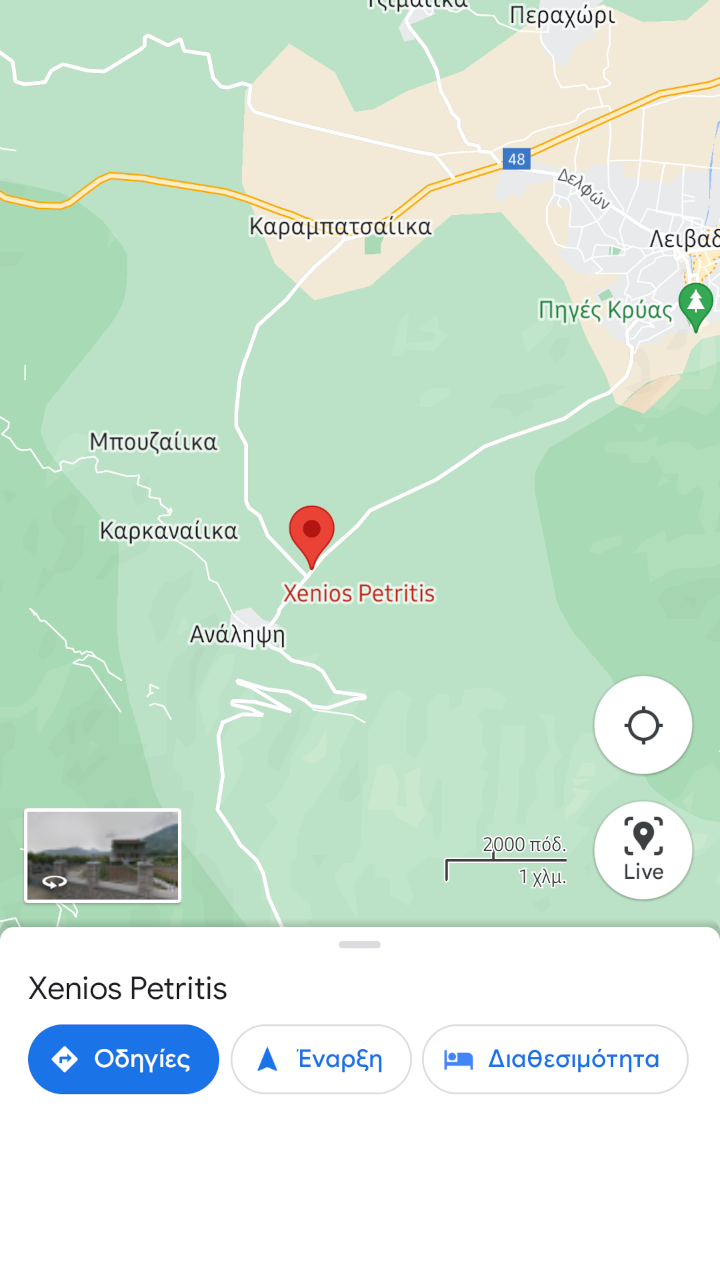
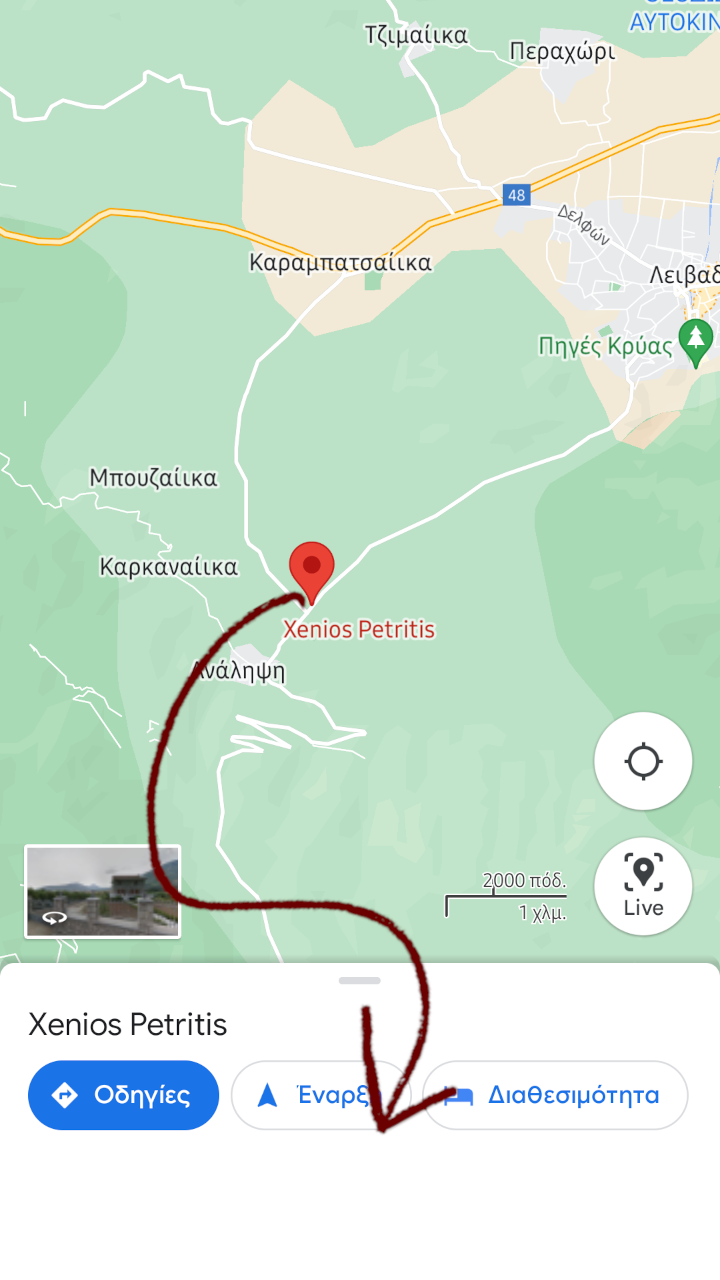
gmap

Changed region(s): [[0.0, 0.0, 1.0, 0.9062], [0.0917, 0.5, 0.1528, 0.5625], [0.0, 0.3438, 0.0306, 0.375]]

diff --git a/lab/bnb/amp.html b/lab/bnb/amp.html
@@ -71,7 +71,7 @@
         font-weight:300;
         color: var(--light);
       }
-      
+
       .p-map {
         color: var(--light);
         font-weight: 300;
@@ -106,24 +106,23 @@
       </amp-story-page>
       <amp-story-page id="gmap">
           <amp-story-grid-layer template="fill">
-          <amp-img src="assets/img/map.png"
+          <amp-img src="assets/img/map2.png"
               width="720" height="1280"
               layout="responsive">
           </amp-img>
           </amp-story-grid-layer>
           <amp-story-grid-layer template="vertical">
             <h1 class="h1-map" data-text-background-color="#1c1c1c">Πως θα μας βρείτε</h1>
-            <p class="p-map" data-text-background-color="#1c1c1c">Πατήστε το κουμπί <strong> Google Map</strong> και όταν ανοίξει η εφαρμόγη ή η σελίδα πατήστε Οδηγίες (Directions) ή Έναρξη (Start)</p>
+            <p class="p-map" data-text-background-color="#1c1c1c">Πατήστε το κουμπί <strong>Google Map</strong> και όταν ανοίξει η εφαρμόγη επιλέξτε <em>Οδηγίες</em> (Directions) ή <em>Έναρξη</em> (Start).</p>
           </amp-story-grid-layer>
-         <amp-story-page-outlink layout="nodisplay"
-          theme="custom"
-          cta-accent-color="#1c1c1c"
-          cta-accent-element="background"
-          cta-image="assets/img/location-icon.png"
+          <amp-story-page-outlink layout="nodisplay"
+            theme="custom"
+            cta-accent-color="#1c1c1c"
+            cta-accent-element="background"
+            cta-image="assets/img/location-icon.png"
           >
-    <a href="https://www.google.com/maps/place/Xenios+Petritis/@38.4136917,22.8362488,17z/data=!3m1!4b1!4m8!3m7!1s0x14a08918fbfff44d:0xf613a1c1491885ad!5m2!4m1!1i2!8m2!3d38.4136875!4d22.8384375" title="Οδηγίες με Google Map">Google Map</a>
-  </amp-story-page-outlink>
-        
+            <a href="https://www.google.com/maps/place/Xenios+Petritis/@38.4136917,22.8362488,17z/data=!3m1!4b1!4m8!3m7!1s0x14a08918fbfff44d:0xf613a1c1491885ad!5m2!4m1!1i2!8m2!3d38.4136875!4d22.8384375" title="Οδηγίες με Google Map">Google Map</a>
+          </amp-story-page-outlink> 
       </amp-story-page>
     </amp-story>
   </body>
